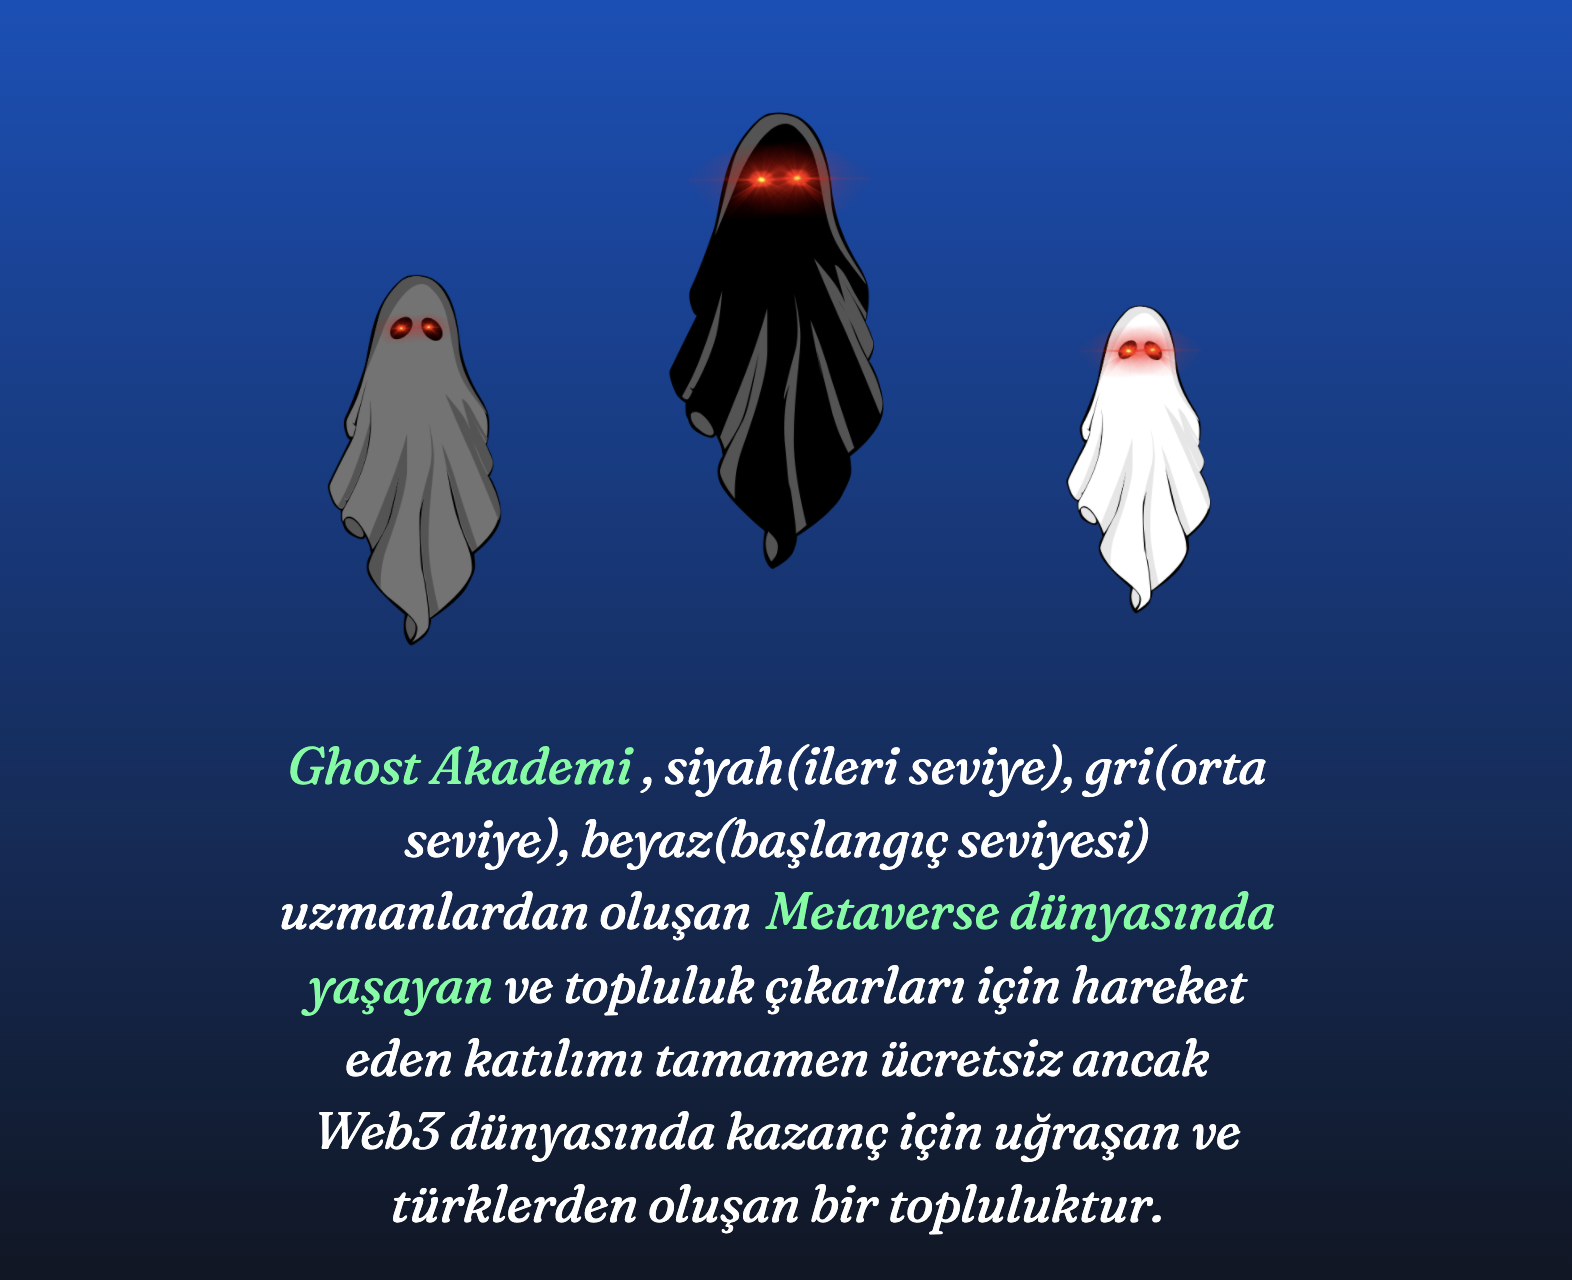
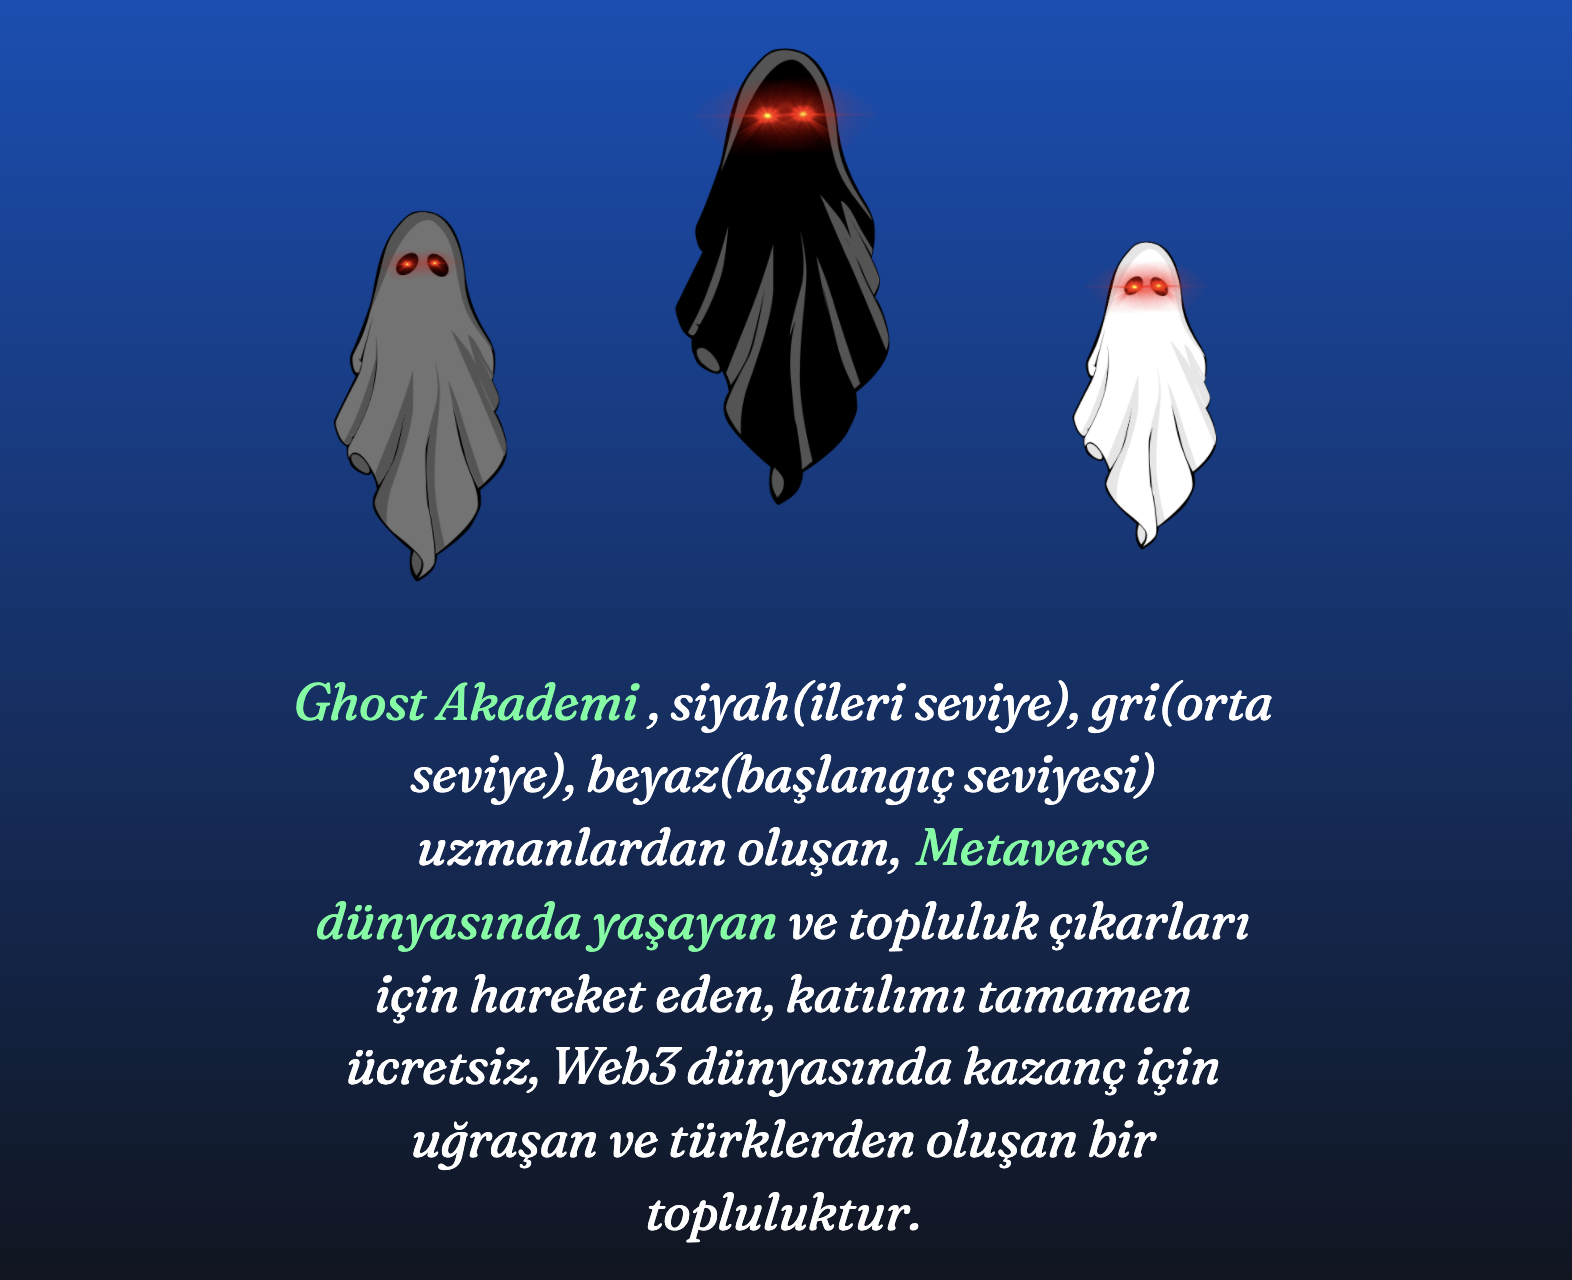
fix in header

diff --git a/index.html b/index.html
@@ -157,14 +157,14 @@
                                     Ghost Akademi
                                 </em>
                             </span>
-                            <em>, siyah(ileri seviye), gri(orta seviye), beyaz(başlangıç seviyesi) uzmanlardan oluşan</em>
+                            <em>, siyah(ileri seviye), gri(orta seviye), beyaz(başlangıç seviyesi) uzmanlardan oluşan,</em>
                             <span class="mint-text">
                                 <em>
                                     Metaverse dünyasında yaşayan
                                 </em>
                             </span>
                             <em>
-                                ve topluluk çıkarları için hareket eden katılımı tamamen ücretsiz ancak Web3 dünyasında kazanç için uğraşan ve türklerden oluşan bir topluluktur.
+                                ve topluluk çıkarları için hareket eden, katılımı tamamen ücretsiz, Web3 dünyasında kazanç için uğraşan ve türklerden oluşan bir topluluktur.
                             </em>
                         </p>
                         <!--<div class="spacer _16"></div>
